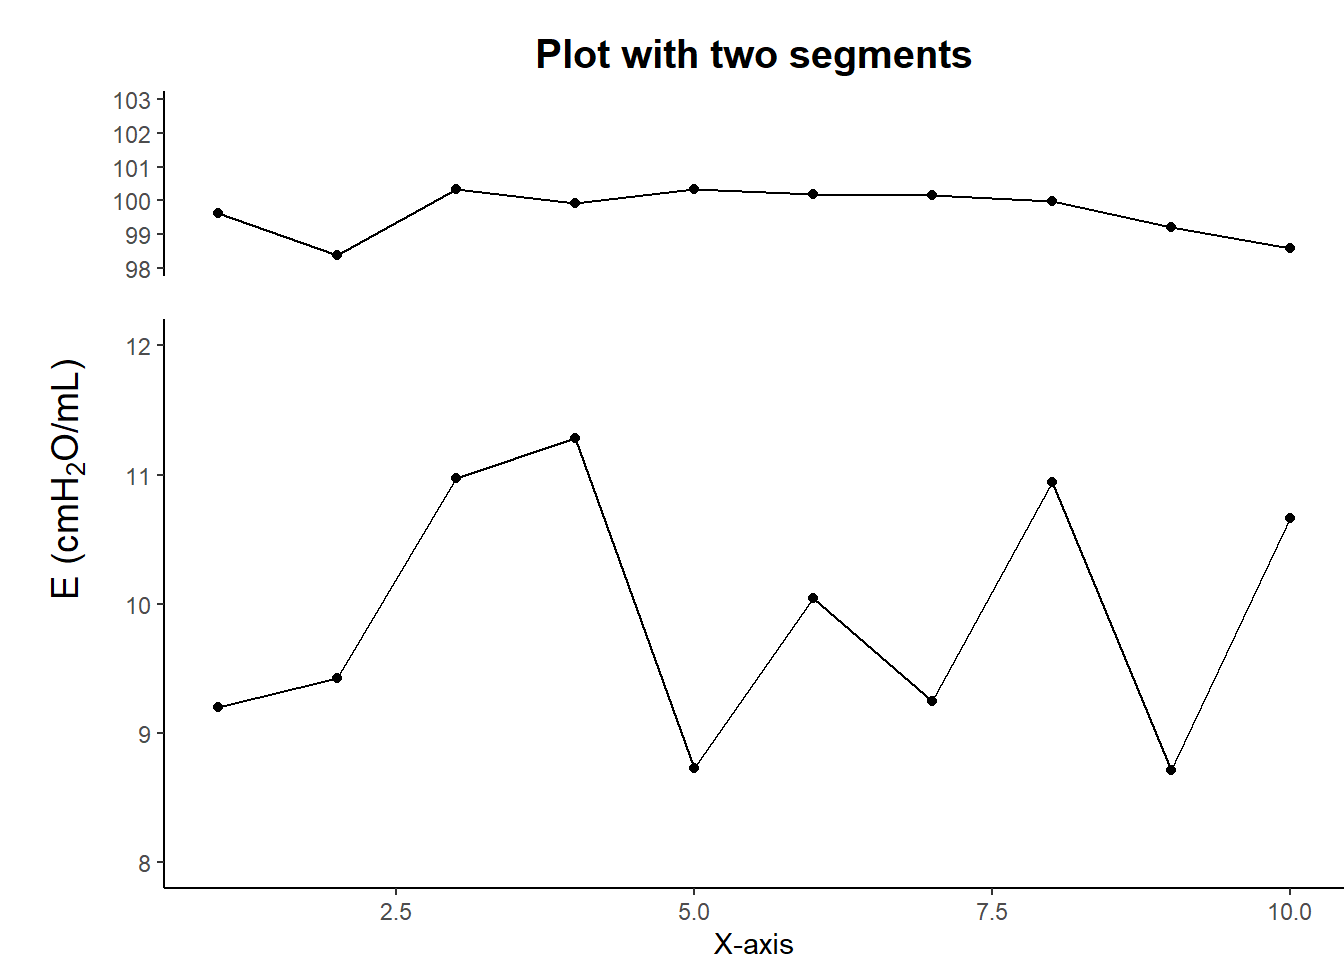
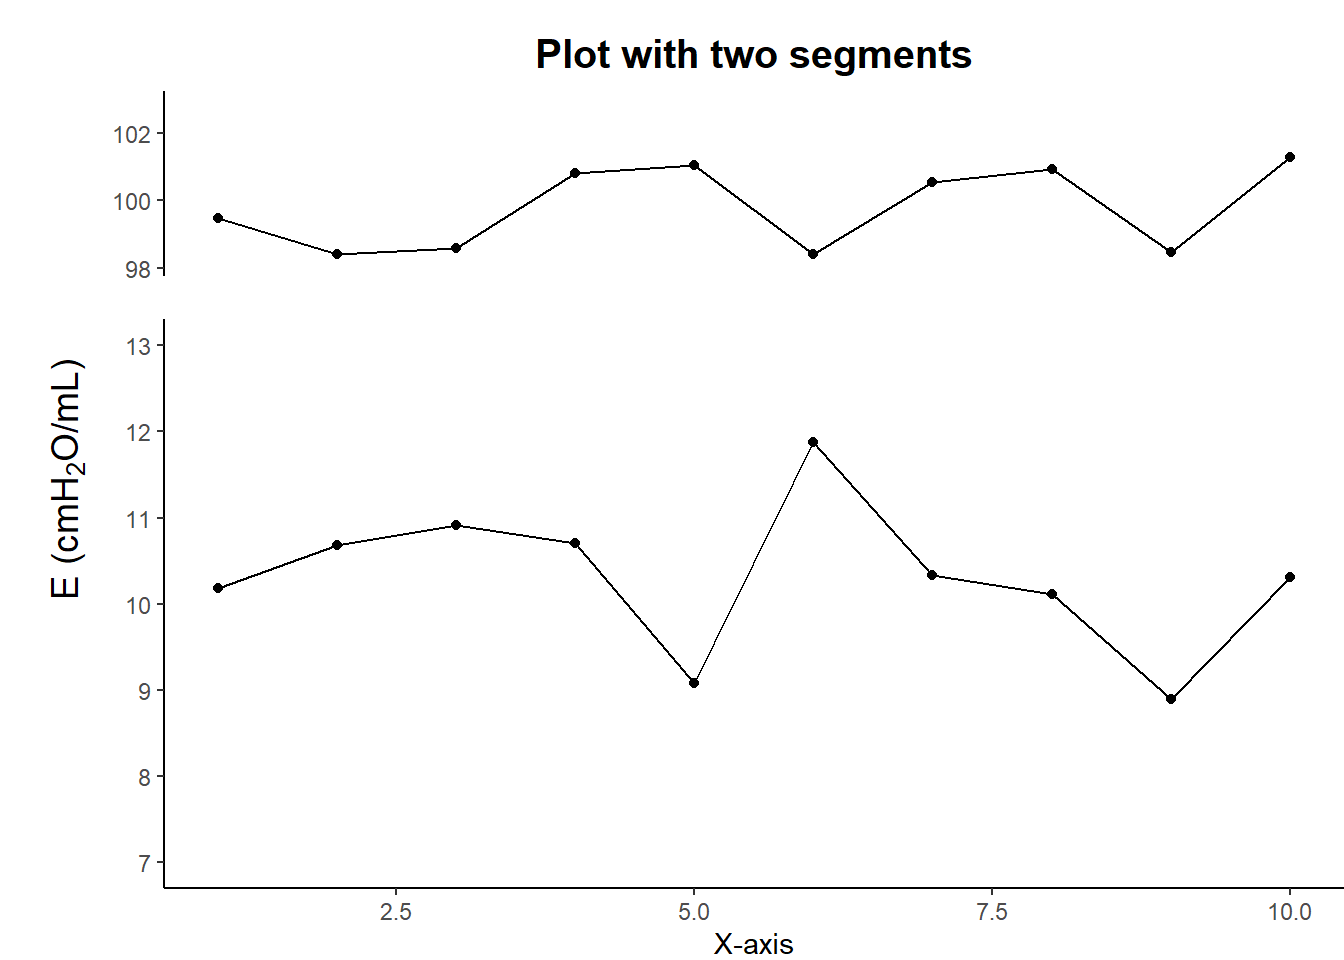
1st submit

diff --git a/5_how to plot a graph with two segments using ggplot2.html b/5_how to plot a graph with two segments using ggplot2.html
@@ -109,9 +109,9 @@ pre > code.sourceCode > span > a:first-child::before { text-decoration: underlin
 <span id="cb3-4"><a href="#cb3-4" aria-hidden="true" tabindex="-1"></a>  <span class="fu">labs</span>(<span class="at">x =</span> <span class="st">"X-axis"</span>, <span class="at">y =</span> <span class="st">""</span>) <span class="sc">+</span></span>
 <span id="cb3-5"><a href="#cb3-5" aria-hidden="true" tabindex="-1"></a>  <span class="fu">theme_classic</span>() <span class="sc">+</span></span>
 <span id="cb3-6"><a href="#cb3-6" aria-hidden="true" tabindex="-1"></a>  <span class="fu">theme</span>(</span>
-<span id="cb3-7"><a href="#cb3-7" aria-hidden="true" tabindex="-1"></a>    <span class="at">plot.margin =</span> <span class="fu">margin</span>(<span class="at">t =</span> <span class="dv">0</span>, <span class="at">l =</span> <span class="dv">1</span>, <span class="at">unit =</span> <span class="st">"cm"</span>)    </span>
+<span id="cb3-7"><a href="#cb3-7" aria-hidden="true" tabindex="-1"></a>    <span class="at">plot.margin =</span> <span class="fu">margin</span>(<span class="at">t =</span> <span class="dv">0</span>, <span class="at">l =</span> <span class="dv">1</span>, <span class="at">unit =</span> <span class="st">"cm"</span>) <span class="co"># t: top; l: left  </span></span>
 <span id="cb3-8"><a href="#cb3-8" aria-hidden="true" tabindex="-1"></a>  ) <span class="sc">+</span></span>
-<span id="cb3-9"><a href="#cb3-9" aria-hidden="true" tabindex="-1"></a>  <span class="fu">scale_y_continuous</span>(<span class="at">breaks =</span> <span class="fu">seq</span>(<span class="dv">8</span>, <span class="dv">12</span>, <span class="at">by =</span> <span class="dv">1</span>), <span class="at">limits =</span> <span class="fu">c</span>(<span class="dv">8</span>, <span class="dv">12</span>))</span>
+<span id="cb3-9"><a href="#cb3-9" aria-hidden="true" tabindex="-1"></a>  <span class="fu">scale_y_continuous</span>(<span class="at">breaks =</span> <span class="fu">seq</span>(<span class="dv">7</span>, <span class="dv">13</span>, <span class="at">by =</span> <span class="dv">1</span>), <span class="at">limits =</span> <span class="fu">c</span>(<span class="dv">7</span>, <span class="dv">13</span>)) <span class="co"># tailered based on real data</span></span>
 <span id="cb3-10"><a href="#cb3-10" aria-hidden="true" tabindex="-1"></a></span>
 <span id="cb3-11"><a href="#cb3-11" aria-hidden="true" tabindex="-1"></a>p2 <span class="ot">&lt;-</span> <span class="fu">ggplot</span>(df[<span class="dv">11</span><span class="sc">:</span><span class="dv">20</span>, ], <span class="fu">aes</span>(<span class="at">x =</span> x, <span class="at">y =</span> y)) <span class="sc">+</span></span>
 <span id="cb3-12"><a href="#cb3-12" aria-hidden="true" tabindex="-1"></a>  <span class="fu">geom_point</span>() <span class="sc">+</span></span>
@@ -119,23 +119,23 @@ pre > code.sourceCode > span > a:first-child::before { text-decoration: underlin
 <span id="cb3-14"><a href="#cb3-14" aria-hidden="true" tabindex="-1"></a>  <span class="fu">labs</span>(<span class="at">title =</span> <span class="st">"Plot with two segments"</span>, <span class="at">x =</span> <span class="st">""</span>, <span class="at">y =</span> <span class="st">""</span>) <span class="sc">+</span></span>
 <span id="cb3-15"><a href="#cb3-15" aria-hidden="true" tabindex="-1"></a>  <span class="fu">theme_classic</span>() <span class="sc">+</span></span>
 <span id="cb3-16"><a href="#cb3-16" aria-hidden="true" tabindex="-1"></a>  <span class="fu">theme</span>(</span>
-<span id="cb3-17"><a href="#cb3-17" aria-hidden="true" tabindex="-1"></a>    <span class="at">plot.title =</span> <span class="fu">element_text</span>(<span class="at">hjust =</span> <span class="fl">0.5</span>, <span class="at">size =</span> <span class="dv">15</span>, <span class="at">face =</span> <span class="st">"bold"</span>),    </span>
-<span id="cb3-18"><a href="#cb3-18" aria-hidden="true" tabindex="-1"></a>    <span class="at">plot.margin =</span> <span class="fu">margin</span>(<span class="at">b =</span> <span class="dv">0</span>, <span class="at">l =</span> <span class="dv">1</span>, <span class="at">t =</span> <span class="fl">0.5</span>, <span class="at">unit =</span> <span class="st">"cm"</span>),</span>
+<span id="cb3-17"><a href="#cb3-17" aria-hidden="true" tabindex="-1"></a>    <span class="at">plot.title =</span> <span class="fu">element_text</span>(<span class="at">hjust =</span> <span class="fl">0.5</span>, <span class="at">size =</span> <span class="dv">15</span>, <span class="at">face =</span> <span class="st">"bold"</span>), <span class="co"># hjust = 0.5 means center   </span></span>
+<span id="cb3-18"><a href="#cb3-18" aria-hidden="true" tabindex="-1"></a>    <span class="at">plot.margin =</span> <span class="fu">margin</span>(<span class="at">b =</span> <span class="dv">0</span>, <span class="at">l =</span> <span class="dv">1</span>, <span class="at">t =</span> <span class="fl">0.5</span>, <span class="at">unit =</span> <span class="st">"cm"</span>), <span class="co"># b: bottom; l: left; t: top</span></span>
 <span id="cb3-19"><a href="#cb3-19" aria-hidden="true" tabindex="-1"></a>    <span class="at">panel.border =</span> <span class="fu">element_blank</span>(),</span>
 <span id="cb3-20"><a href="#cb3-20" aria-hidden="true" tabindex="-1"></a>    <span class="at">axis.text.x =</span> <span class="fu">element_blank</span>(),</span>
 <span id="cb3-21"><a href="#cb3-21" aria-hidden="true" tabindex="-1"></a>    <span class="at">axis.line.x =</span> <span class="fu">element_blank</span>(),</span>
 <span id="cb3-22"><a href="#cb3-22" aria-hidden="true" tabindex="-1"></a>    <span class="at">axis.ticks.x =</span> <span class="fu">element_blank</span>()</span>
 <span id="cb3-23"><a href="#cb3-23" aria-hidden="true" tabindex="-1"></a>  ) <span class="sc">+</span></span>
-<span id="cb3-24"><a href="#cb3-24" aria-hidden="true" tabindex="-1"></a>  <span class="fu">scale_y_continuous</span>(<span class="at">breaks =</span> <span class="fu">seq</span>(<span class="dv">98</span>, <span class="dv">103</span>, <span class="at">by =</span> <span class="dv">1</span>), <span class="at">limits =</span> <span class="fu">c</span>(<span class="dv">98</span>, <span class="dv">103</span>))</span></code><button title="Copy to Clipboard" class="code-copy-button"><i class="bi"></i></button></pre></div>
+<span id="cb3-24"><a href="#cb3-24" aria-hidden="true" tabindex="-1"></a>  <span class="fu">scale_y_continuous</span>(<span class="at">breaks =</span> <span class="fu">seq</span>(<span class="dv">98</span>, <span class="dv">103</span>, <span class="at">by =</span> <span class="dv">2</span>), <span class="at">limits =</span> <span class="fu">c</span>(<span class="dv">98</span>, <span class="dv">103</span>)) <span class="co"># tailered based on real data</span></span></code><button title="Copy to Clipboard" class="code-copy-button"><i class="bi"></i></button></pre></div>
 </div>
 </section>
 <section id="use-cowplot-to-merge-the-two-plots-of-p1-and-p2-vertically" class="level2">
 <h2 class="anchored" data-anchor-id="use-cowplot-to-merge-the-two-plots-of-p1-and-p2-vertically">Use cowplot to merge the two plots of p1 and p2 vertically</h2>
 <div class="cell">
-<div class="sourceCode cell-code" id="cb4"><pre class="sourceCode r code-with-copy"><code class="sourceCode r"><span id="cb4-1"><a href="#cb4-1" aria-hidden="true" tabindex="-1"></a>combined_plot <span class="ot">&lt;-</span> <span class="fu">plot_grid</span>(p2, p1, <span class="at">ncol =</span> <span class="dv">1</span>, <span class="at">align =</span> <span class="st">"v"</span>, <span class="at">rel_heights =</span> <span class="fu">c</span>(<span class="dv">1</span>, <span class="dv">2</span>), <span class="at">vjust =</span> <span class="dv">0</span>)</span>
+<div class="sourceCode cell-code" id="cb4"><pre class="sourceCode r code-with-copy"><code class="sourceCode r"><span id="cb4-1"><a href="#cb4-1" aria-hidden="true" tabindex="-1"></a>combined_plot <span class="ot">&lt;-</span> <span class="fu">plot_grid</span>(p2, p1, <span class="at">ncol =</span> <span class="dv">1</span>, <span class="at">align =</span> <span class="st">"v"</span>, <span class="at">rel_heights =</span> <span class="fu">c</span>(<span class="dv">1</span>, <span class="dv">2</span>), <span class="at">vjust =</span> <span class="dv">0</span>) <span class="co"># align = "v" means vertically; rel_heights: relative height; vjust: vertical alignment</span></span>
 <span id="cb4-2"><a href="#cb4-2" aria-hidden="true" tabindex="-1"></a></span>
 <span id="cb4-3"><a href="#cb4-3" aria-hidden="true" tabindex="-1"></a>final_plot <span class="ot">&lt;-</span> <span class="fu">ggdraw</span>(combined_plot) <span class="sc">+</span></span>
-<span id="cb4-4"><a href="#cb4-4" aria-hidden="true" tabindex="-1"></a>  <span class="fu">draw_label</span>(<span class="fu">expression</span>(<span class="fu">paste</span>(<span class="st">"E (cm"</span>, H[<span class="dv">2</span>], <span class="st">"O/mL)"</span>)), <span class="at">x =</span> <span class="fl">0.05</span>, <span class="at">y =</span> <span class="fl">0.5</span>, <span class="at">angle =</span> <span class="dv">90</span>, <span class="at">hjust =</span> <span class="fl">0.5</span>, <span class="at">vjust =</span> <span class="fl">0.5</span>)</span>
+<span id="cb4-4"><a href="#cb4-4" aria-hidden="true" tabindex="-1"></a>  <span class="fu">draw_label</span>(<span class="fu">expression</span>(<span class="fu">paste</span>(<span class="st">"E (cm"</span>, H[<span class="dv">2</span>], <span class="st">"O/mL)"</span>)), <span class="at">x =</span> <span class="fl">0.05</span>, <span class="at">y =</span> <span class="fl">0.5</span>, <span class="at">angle =</span> <span class="dv">90</span>, <span class="at">vjust =</span> <span class="fl">0.5</span>) <span class="co"># vjust = 0.5 means center</span></span>
 <span id="cb4-5"><a href="#cb4-5" aria-hidden="true" tabindex="-1"></a></span>
 <span id="cb4-6"><a href="#cb4-6" aria-hidden="true" tabindex="-1"></a>final_plot</span></code><button title="Copy to Clipboard" class="code-copy-button"><i class="bi"></i></button></pre></div>
 <div class="cell-output-display">
